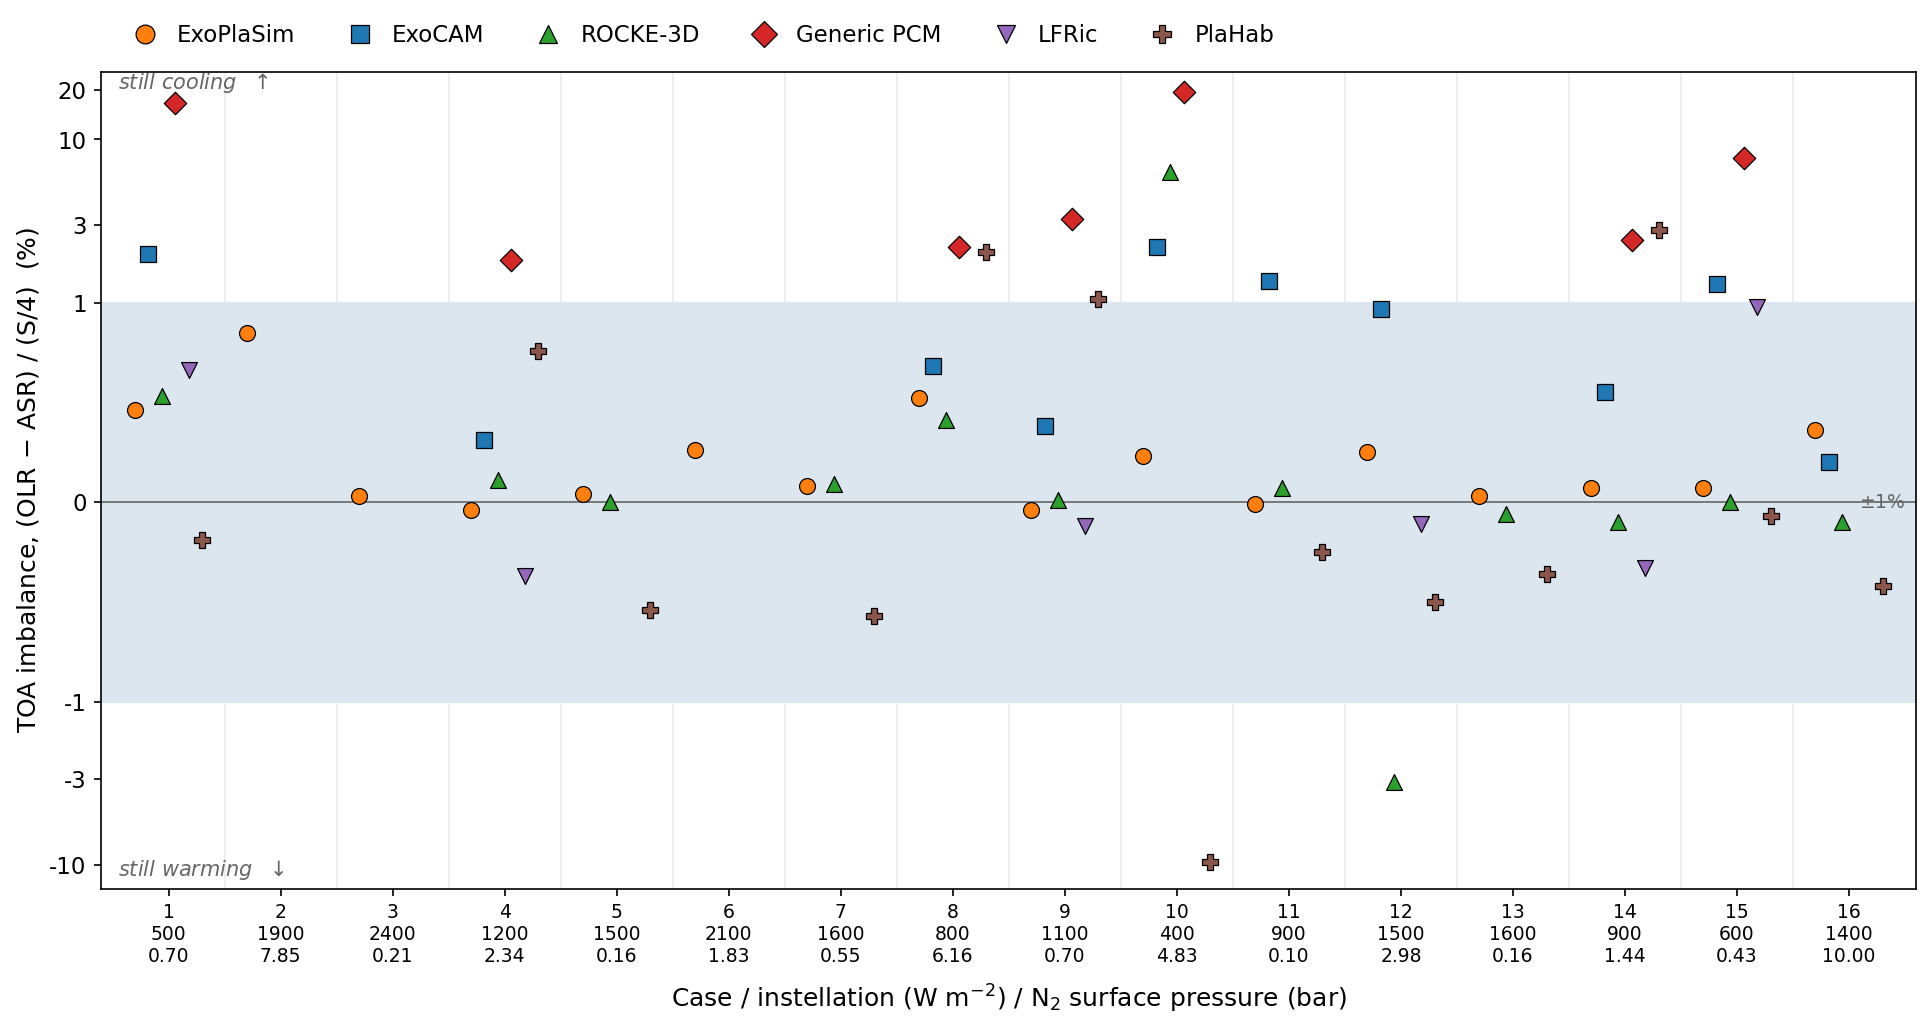
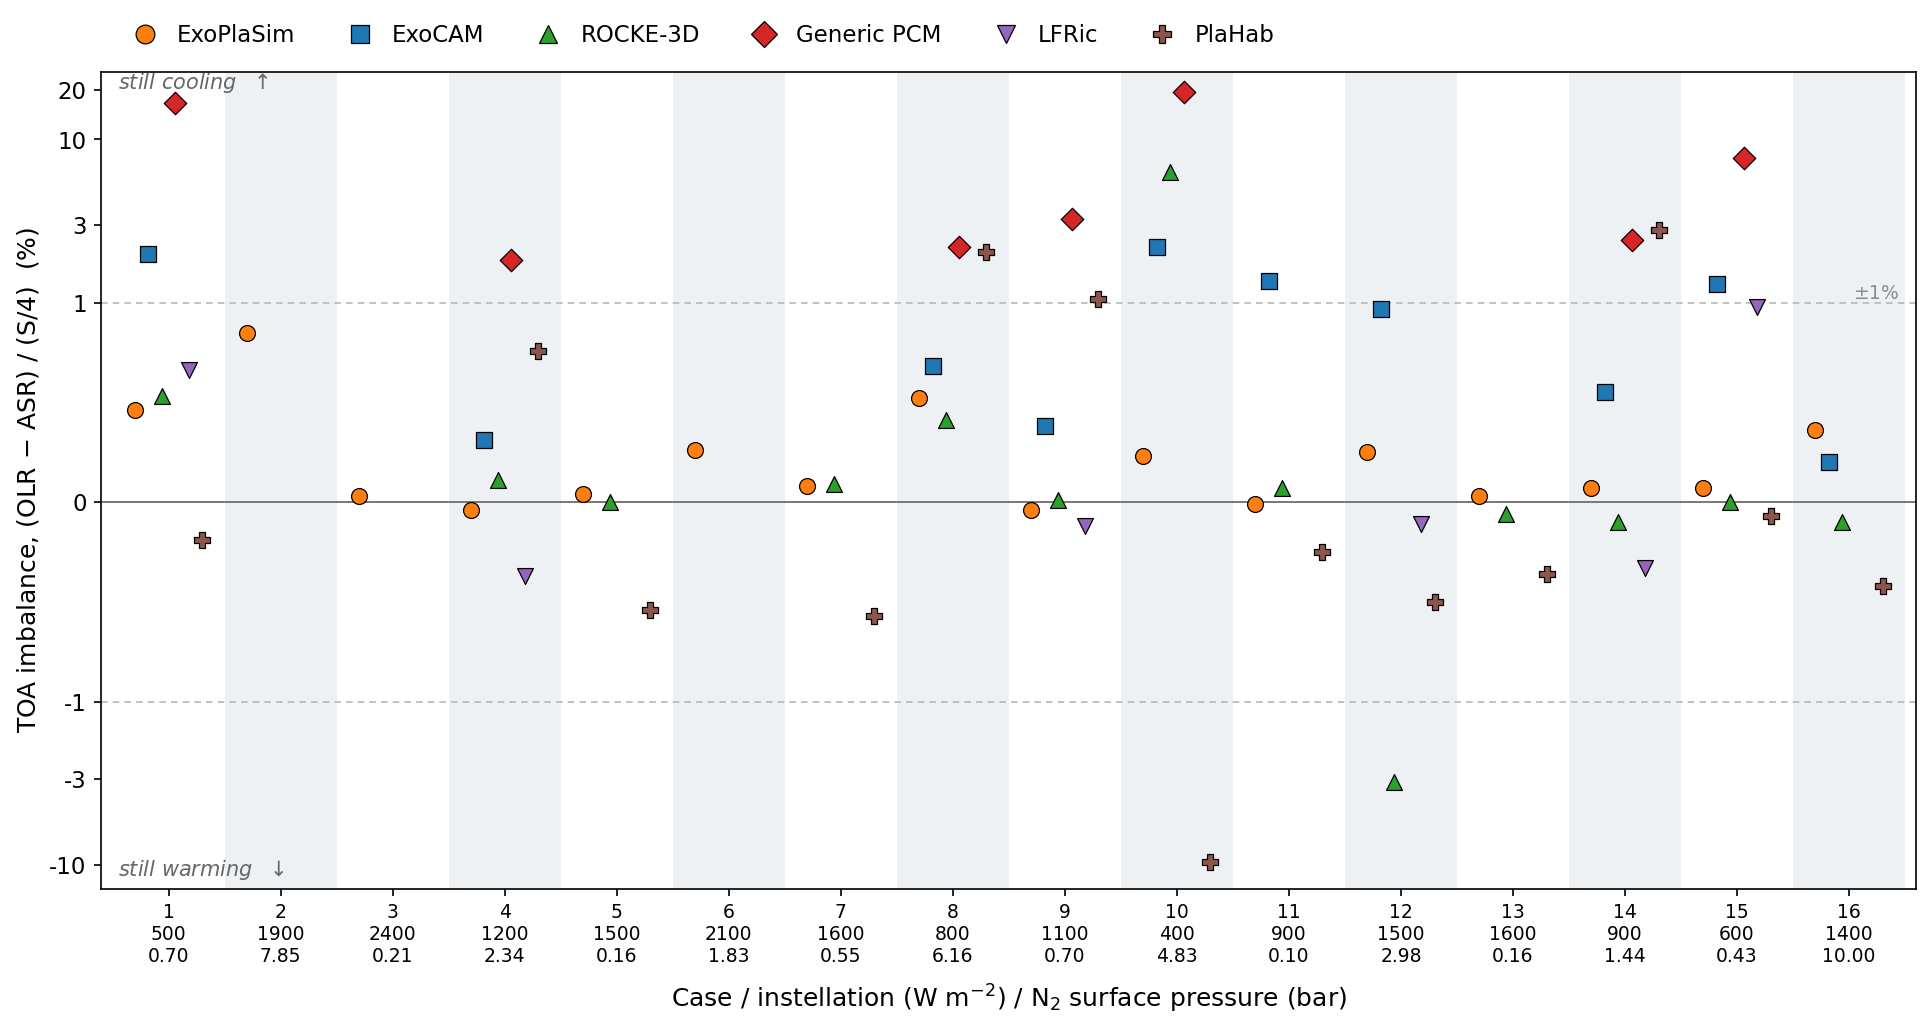
Shade alternate cases in the energy balance figure
With six models offset into fixed lanes within each case, it was hard to
tell which markers belonged to which sample point. Shading alternate
case columns groups them unambiguously.

The +/-1% band is removed, since two overlapping shadings competed for
the same visual channel, and the vertical separator rules go with it:
they marked the same boundaries the shading now marks.

The +/-1% level is kept as two light dashed rules rather than fill. The
accompanying text argues from which models fall inside that tolerance,
so the threshold still needs to be readable off the figure. Its label
moves inside the axes, having previously straddled the right spine.

Claude-Session: https://claude.ai/code/session_01Sx4izBgf4NCPr4eZzM4VnT

diff --git a/figures/allcases/fig_energy_balance.py b/figures/allcases/fig_energy_balance.py
@@ -81,13 +81,16 @@ linthresh = 1.0     # per cent; linear/log crossover of the symlog axis
 
 fig, ax = plt.subplots( figsize=( 13, 7.0 ) )
 
-# Light separators between cases, so the six markers in each column stay grouped
-for i in range( 1, 16 ):
-    ax.axvline( i + 0.5, color='0.92', lw=0.8, zorder=0 )
+# Shade alternate cases, so it is unambiguous which markers belong to which
+# case. This replaces the separator lines, which are redundant once the
+# columns are shaded, and the +/-1% band, which competed with the shading.
+for i in cases[ 1::2 ]:
+    ax.axvspan( i - 0.5, i + 0.5, color='#eef1f4', lw=0, zorder=0 )
 
-# Equilibrium band and zero line
-ax.axhspan( -tol, tol, color='#dce6ef', zorder=1 )
+# Zero line, and the equilibrium tolerance now marked by rules rather than fill
 ax.axhline( 0.0, color='0.45', lw=0.9, zorder=2 )
+for sgn in ( -1, 1 ):
+    ax.axhline( sgn * tol, color='0.72', lw=0.8, ls=( 0, ( 4, 3 ) ), zorder=1 )
 
 offsets = np.linspace( -0.30, 0.30, len( models ) )
 
@@ -114,7 +117,7 @@ ax.set_xlabel( 'Case / instellation (W m$^{-2}$) / N$_2$ surface pressure (bar)'
 ax.set_ylabel( 'TOA imbalance, (OLR $-$ ASR) / (S/4)  (%)', fontsize=12 )
 ax.tick_params( axis='y', labelsize=11 )
 
-ax.text( 16.5, 0.0, f'$\\pm${tol:.0f}%', ha='right', va='center', fontsize=9, color='0.4' )
+ax.text( 16.45, tol, f'$\\pm${tol:.0f}%', ha='right', va='bottom', fontsize=9, color='0.55' )
 ax.text( 0.55, 20.5, 'still cooling  $\\uparrow$', fontsize=10, color='0.4', style='italic' )
 ax.text( 0.55, -11.7, 'still warming  $\\downarrow$', fontsize=10, color='0.4', style='italic' )
 
